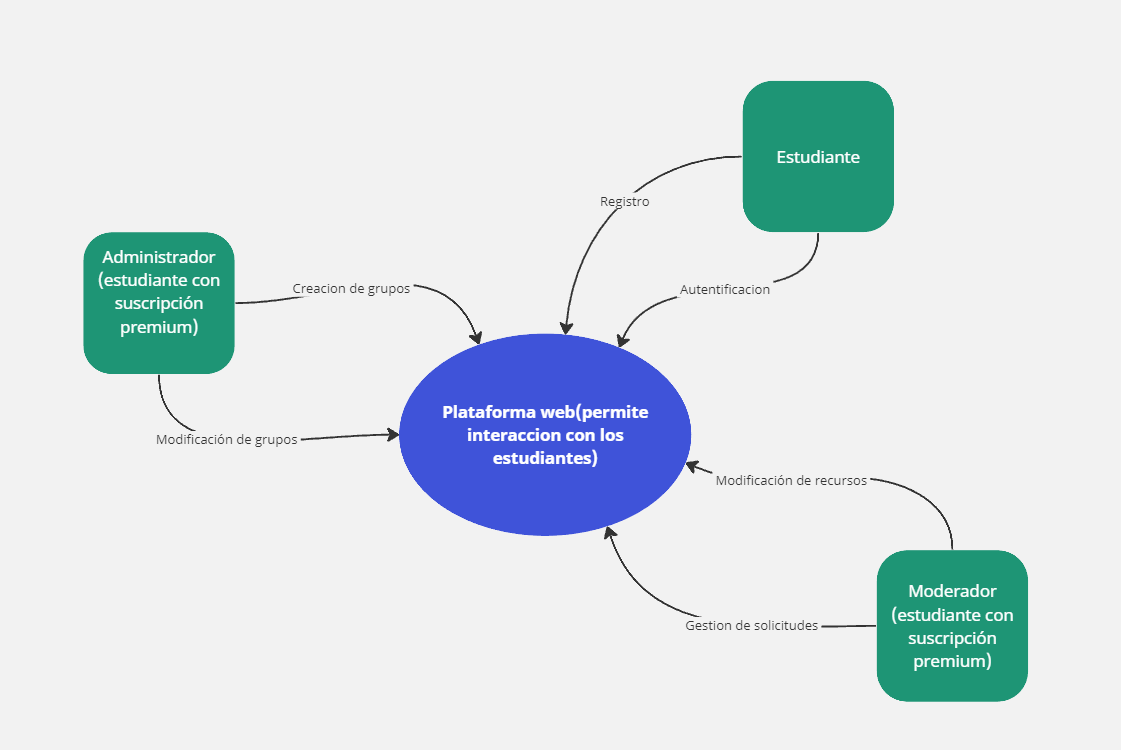
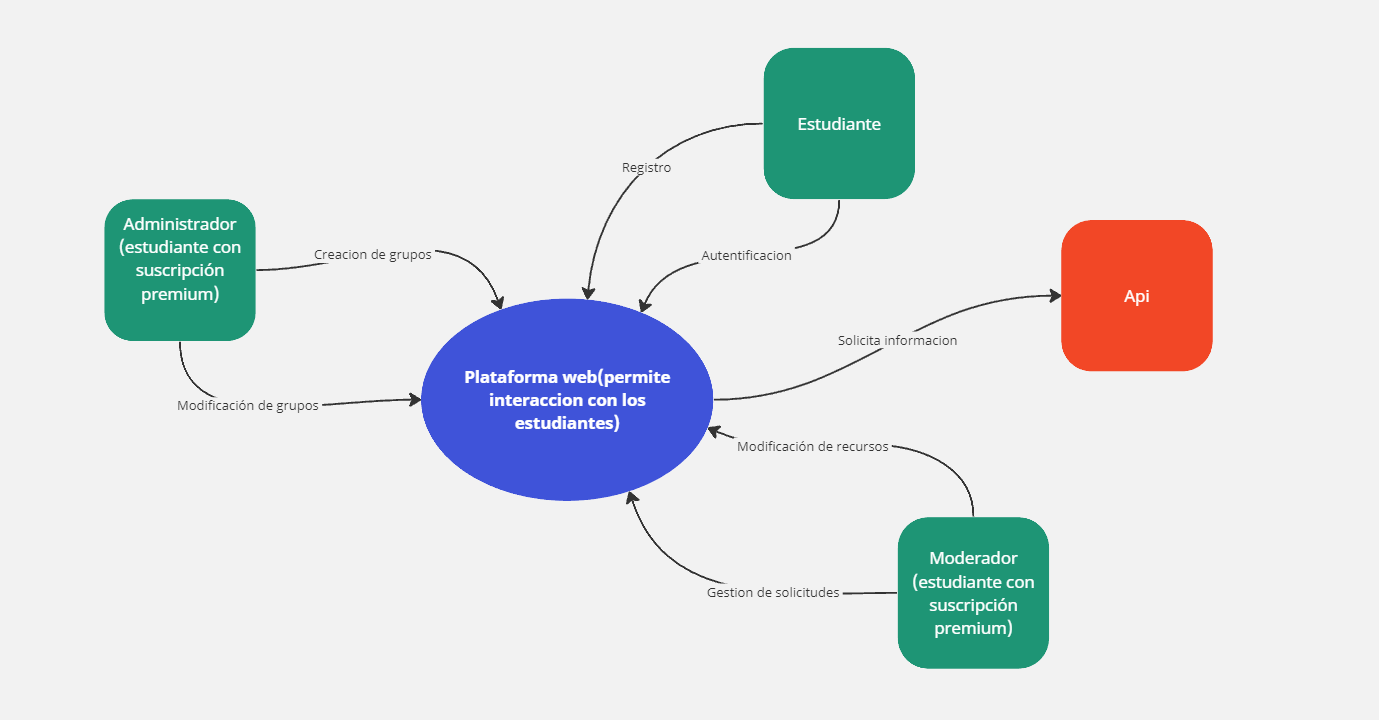
diagrama de contexto mejorado

diff --git a/Documento/5. Propuesta de Arquitectura Inicial.md b/Documento/5. Propuesta de Arquitectura Inicial.md
@@ -1,0 +1,7 @@
+# 5 Propuesta de arquitectura (Inicial)
+
+En esta seccion, se mostrara mediante diagramas la propuesta de arquitectura inicial.
+
+## 1. Diagrama de contexto
+
+![digrama contexto](../Diagramas/diagrama_contexto.png)
